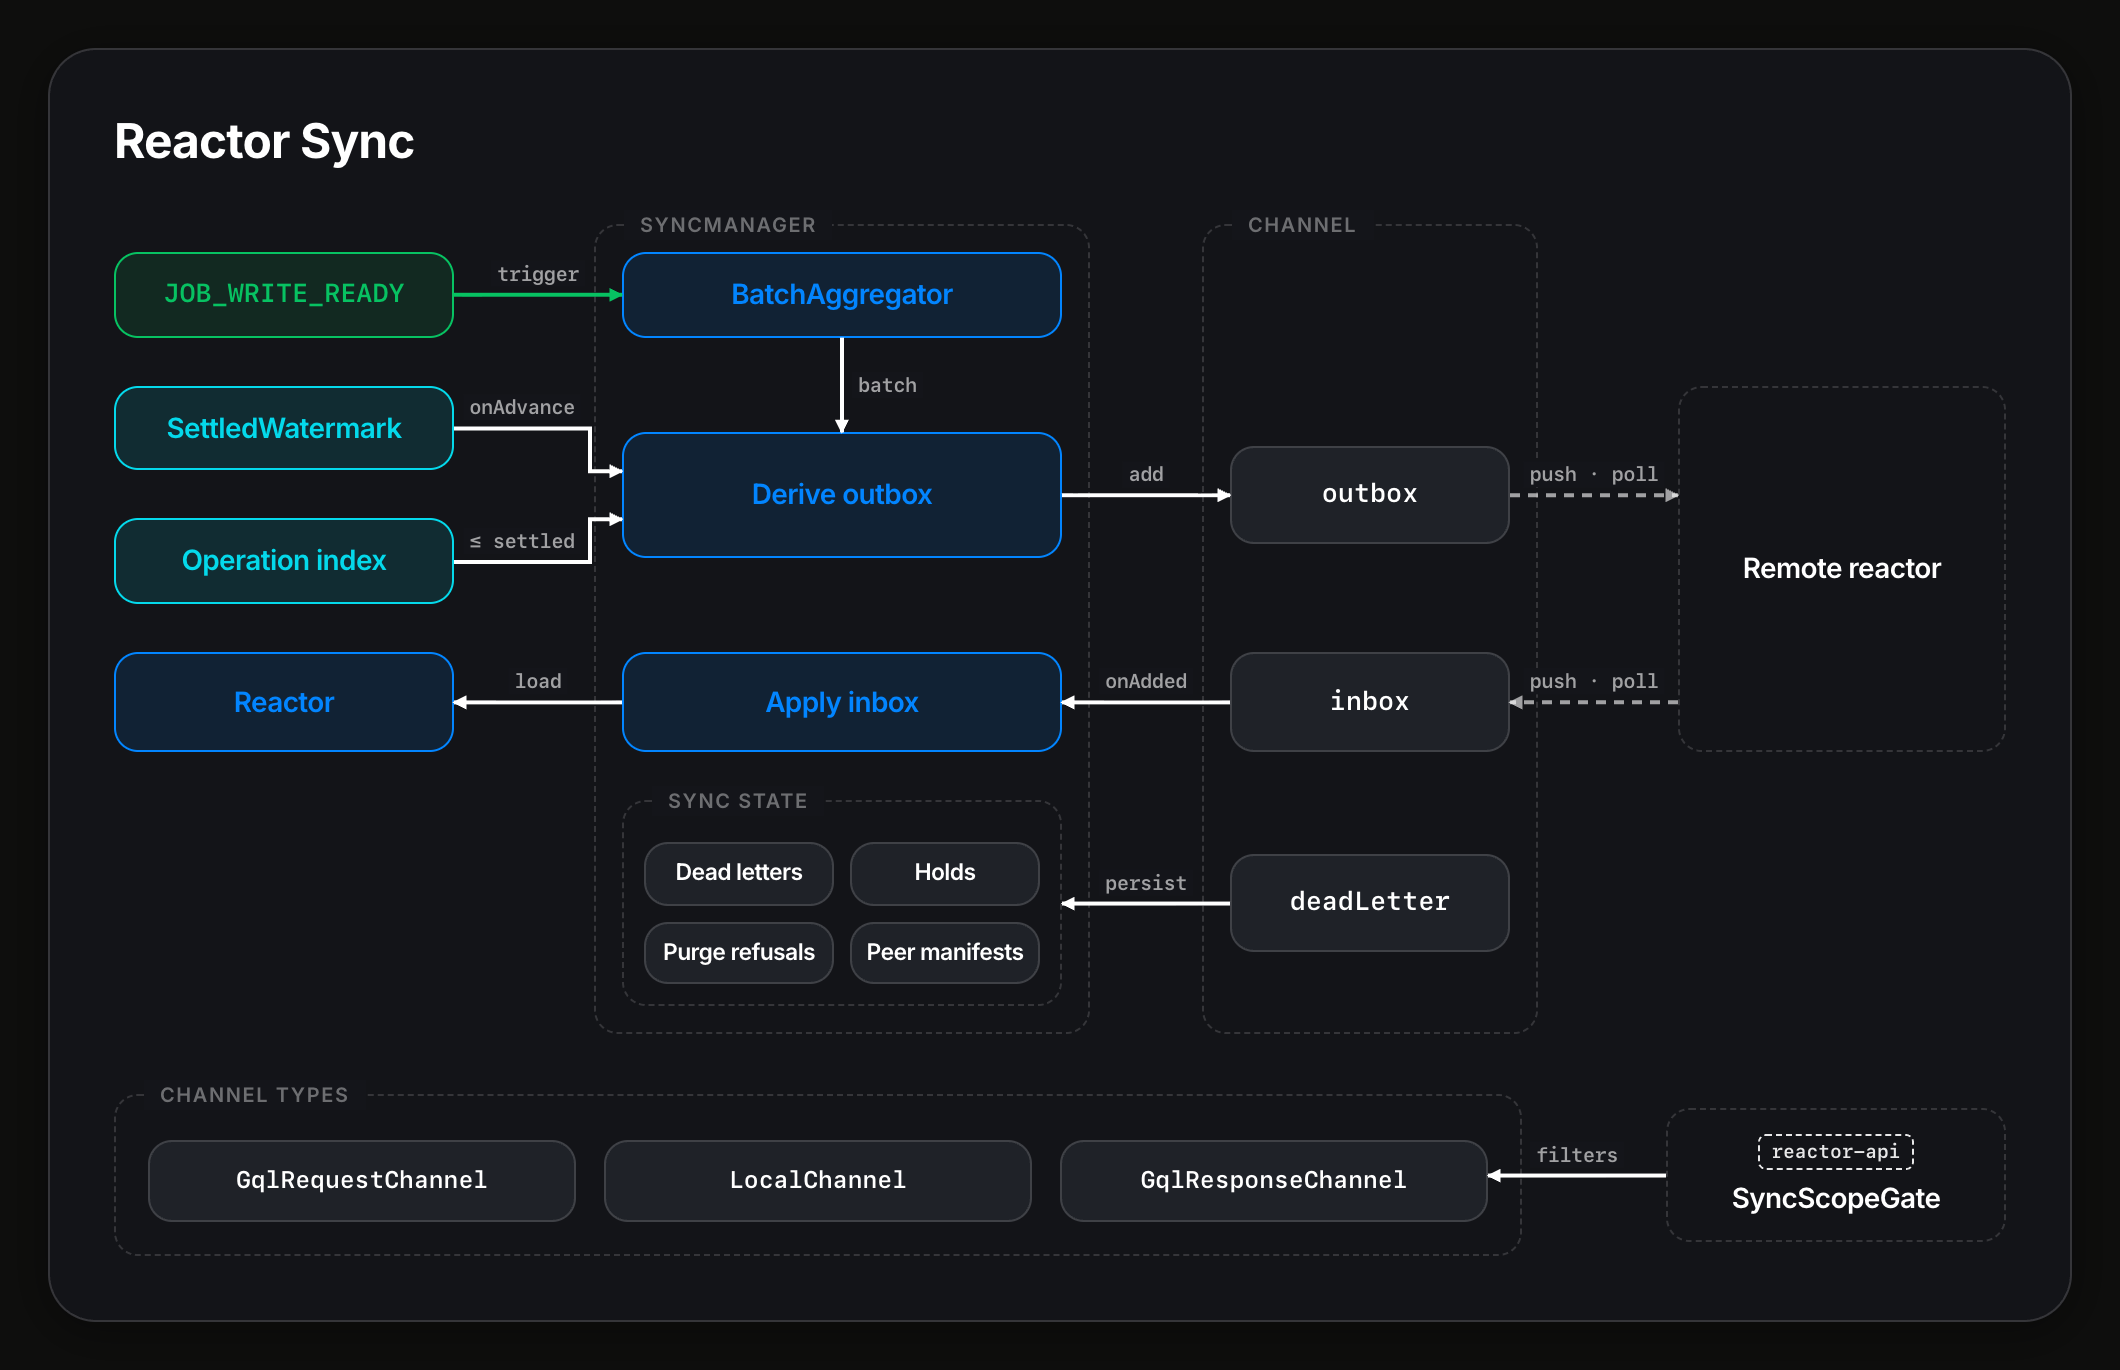
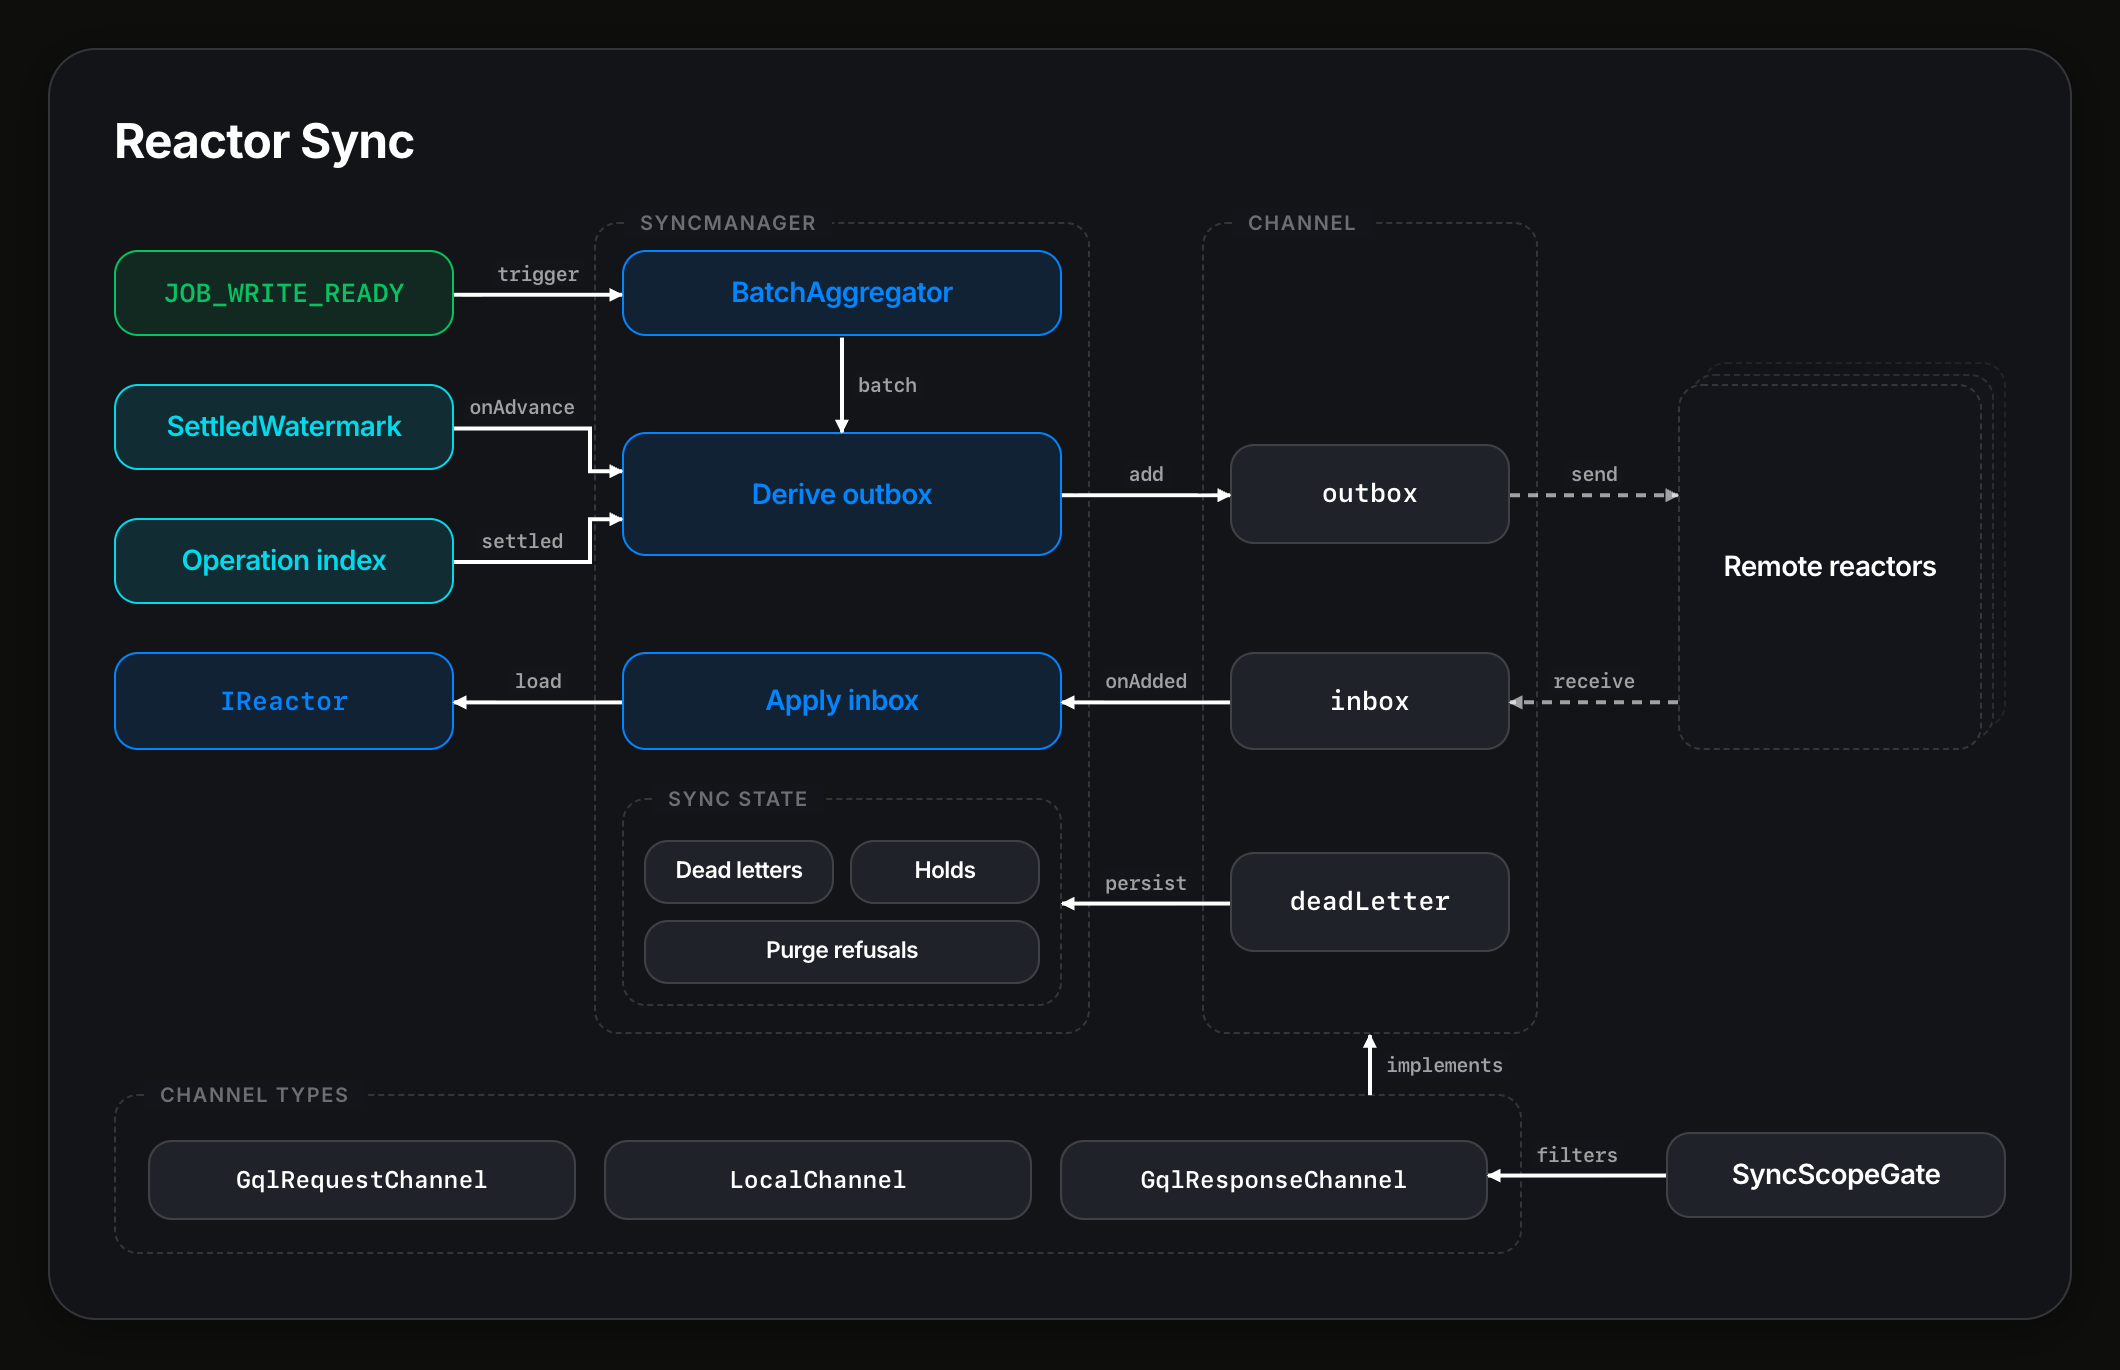
reactor sync: apply the components rules
One edge colour, one-word labels (send and receive replace push · poll)
and name-only boxes: the reactor-api tag on SyncScopeGate is gone and
the facade is IReactor. Remote reactors are a fan-out stack. The
channel-type boxes now connect to the Channel frame with an implements
edge, and Peer manifests, which had no truthful edge here, is removed
from sync state.

diff --git a/pages/reactor-sync.html b/pages/reactor-sync.html
@@ -179,7 +179,7 @@
 <body>
   <!--
     Element → source map (paths relative to packages/reactor/src unless prefixed reactor-api/).
-    Line numbers as of main a30562aeca.
+    Line numbers as of main a30562aeca. All edges share one colour; dashed marks the channel transport.
 
     SyncManager ............... sync/sync-manager.ts; built by sync/sync-builder.ts:131 (core/reactor-builder.ts:1402, :1415)
     JOB_WRITE_READY · trigger . sync-manager.ts:592-595 (enqueueWriteReady)
@@ -187,23 +187,22 @@
     batch ..................... sync-manager.ts:2337 processCompleteBatch
     SettledWatermark .......... catch-up/settled-watermark.ts:225, probe :163-221
     onAdvance ................. sync-manager.ts:588-590; settled-watermark.ts:304-310; sync-manager.ts:2405 deriveSettled
-    Operation index · ≤ settled cache/kysely-operation-index.ts:158; sync-manager.ts:3474 (throughOrdinal = settledThrough), :3482-3491
+    Operation index · settled . cache/kysely-operation-index.ts:158; sync-manager.ts:3474 (throughOrdinal = settledThrough), :3482-3491
     Derive outbox ............. sync-manager.ts:3463 deriveOutbox; filters :3517-3535; emitBatches :3412
     add ....................... sync-manager.ts:3459 outbox.add
     Apply inbox ............... sync-manager.ts:2488 handleInboxAdded; ack on WRITE_READY :2368, sync/utils.ts:28
     onAdded ................... sync-manager.ts:2116-2118
     load ...................... sync-manager.ts:2863 reactor.load, :3064 reactor.loadBatch
-    Reactor ................... core/reactor.ts:717 load, :873 loadBatch
+    IReactor .................. core/types.ts:138; core/reactor.ts:717 load, :873 loadBatch
     outbox · inbox · deadLetter sync/interfaces.ts:37-102; sync/mailbox.ts:75
-    push · poll ............... channels/gql-req-channel.ts:1382 (pushSyncEnvelopes), :1022 (pollSyncEnvelopes); channels/local-channel.ts:73
+    send / receive ............ channels/gql-req-channel.ts:1382 (pushSyncEnvelopes), :1022 (pollSyncEnvelopes); channels/local-channel.ts:73
     persist ................... sync-manager.ts:2148 deadLetter.onAdded, :2234 persist, DEAD_LETTER_ADDED :2247
     Sync state
       Dead letters ............ sync-manager.ts:2234, :2268
       Holds ................... sync-manager.ts:966 (SYNC_HELD), :1049 (SYNC_RELEASED)
       Purge refusals .......... sync/purge-refusals.ts:8; sync-manager.ts:828, :843 (PURGE_REFUSED)
-      Peer manifests .......... sync/peer-agreement.ts:27-63; sync-manager.ts:729 applyPeerManifest
-    Remote reactor ............ peer behind its own channel
-    Channel types
+    Remote reactors [stack] ... sync/sync-manager.ts:312 (remotes: Map<string, Remote>)
+    Channel types · implements  each class implements IChannel (sync/interfaces.ts:37-102)
       GqlRequestChannel ....... channels/gql-req-channel.ts:160 (touchChannel :1124)
       LocalChannel ............ channels/local-channel.ts:73; channels/local-channel-factory.ts:27
       GqlResponseChannel ...... channels/gql-res-channel.ts:23; reactor-api/src/graphql/reactor/resolvers.ts:2214, :1803
@@ -220,18 +219,18 @@
         <div class="diagram">
 
           <div class="frame-col" style="grid-column:2"><span class="group-label">SyncManager</span></div>
-          <div class="frame-col" style="grid-column:3"><span class="group-label">Channel</span></div>
+          <div class="frame-col" id="chan-frame" style="grid-column:3"><span class="group-label">Channel</span></div>
 
-          <div class="box event-pill" id="ev" style="grid-column:1;grid-row:1"><div class="box-title mono">JOB_WRITE_READY</div></div>
+          <div class="box accent-green" id="ev" style="grid-column:1;grid-row:1"><div class="box-title mono">JOB_WRITE_READY</div></div>
           <div class="box accent-blue" id="agg" style="grid-column:2;grid-row:1"><div class="box-title">BatchAggregator</div></div>
 
           <div class="box accent-cyan" id="wm" style="grid-column:1;grid-row:2"><div class="box-title">SettledWatermark</div></div>
           <div class="box accent-cyan" id="oi" style="grid-column:1;grid-row:3"><div class="box-title">Operation index</div></div>
           <div class="box accent-blue" id="derive" style="grid-column:2;grid-row:2 / 4;align-self:center;padding:22px 12px"><div class="box-title">Derive outbox</div></div>
           <div class="box mailbox" id="outbox" style="grid-column:3;grid-row:2 / 4"><div class="box-title mono">outbox</div></div>
-          <div class="box variant" id="remote" style="grid-column:4;grid-row:2 / 5"><div class="box-title">Remote reactor</div></div>
+          <div class="fanout dashed" id="remote" style="grid-column:4;grid-row:2 / 5;margin-top:0"><div class="box variant"><div class="box-title">Remote reactors</div></div></div>
 
-          <div class="box accent-blue" id="reactor" style="grid-column:1;grid-row:4"><div class="box-title">Reactor</div></div>
+          <div class="box accent-blue" id="reactor" style="grid-column:1;grid-row:4"><div class="box-title mono">IReactor</div></div>
           <div class="box accent-blue" id="apply" style="grid-column:2;grid-row:4"><div class="box-title">Apply inbox</div></div>
           <div class="box mailbox" id="inbox" style="grid-column:3;grid-row:4"><div class="box-title mono">inbox</div></div>
 
@@ -239,8 +238,7 @@
             <span class="group-label">Sync state</span>
             <div class="box"><div class="box-title">Dead letters</div></div>
             <div class="box"><div class="box-title">Holds</div></div>
-            <div class="box"><div class="box-title">Purge refusals</div></div>
-            <div class="box"><div class="box-title">Peer manifests</div></div>
+            <div class="box" style="grid-column:1 / -1"><div class="box-title">Purge refusals</div></div>
           </div>
           <div class="box mailbox" id="dead" style="grid-column:3;grid-row:5"><div class="box-title mono">deadLetter</div></div>
         </div>
@@ -252,10 +250,7 @@
             <div class="box"><div class="box-title mono">LocalChannel</div></div>
             <div class="box" id="gqlres"><div class="box-title mono">GqlResponseChannel</div></div>
           </div>
-          <div class="box variant" id="gate">
-            <span class="variant-tag">reactor-api</span>
-            <div class="box-title">SyncScopeGate</div>
-          </div>
+          <div class="box" id="gate"><div class="box-title">SyncScopeGate</div></div>
         </div>
         </div>
       </div>
@@ -272,19 +267,20 @@
       const ev = R('ev'), agg = R('agg'), wm = R('wm'), oi = R('oi'), d = R('derive');
       const ob = R('outbox'), rm = R('remote'), re = R('reactor'), ap = R('apply');
       const ib = R('inbox'), st = R('state'), dl = R('dead');
-      const gr = R('gqlres'), gt = R('gate');
+      const gr = R('gqlres'), gt = R('gate'), cf = R('chan-frame'), ty = R('types');
       return [
-        { cls: 'w-event', pts: [[ev.r, ev.cy], [agg.l, ev.cy]], label: 'trigger', seg: 0 },
+        { cls: 'w-call', pts: [[ev.r, ev.cy], [agg.l, ev.cy]], label: 'trigger', seg: 0 },
         { cls: 'w-call', pts: [[agg.cx, agg.b], [agg.cx, d.t]], label: 'batch', seg: 0 },
         { cls: 'w-call', pts: [[wm.r, wm.cy], [d.l - 16, wm.cy], [d.l - 16, d.cy - 12], [d.l, d.cy - 12]], label: 'onAdvance', seg: 0 },
-        { cls: 'w-call', pts: [[oi.r, oi.cy], [d.l - 16, oi.cy], [d.l - 16, d.cy + 12], [d.l, d.cy + 12]], label: '≤ settled', seg: 0 },
+        { cls: 'w-call', pts: [[oi.r, oi.cy], [d.l - 16, oi.cy], [d.l - 16, d.cy + 12], [d.l, d.cy + 12]], label: 'settled', seg: 0 },
         { cls: 'w-call', pts: [[d.r, ob.cy], [ob.l, ob.cy]], label: 'add', seg: 0 },
-        { cls: 'w-dash', pts: [[ob.r, ob.cy], [rm.l, ob.cy]], label: 'push · poll', seg: 0 },
-        { cls: 'w-dash', pts: [[rm.l, ib.cy], [ib.r, ib.cy]], label: 'push · poll', seg: 0 },
+        { cls: 'w-dash', pts: [[ob.r, ob.cy], [rm.l, ob.cy]], label: 'send', seg: 0 },
+        { cls: 'w-dash', pts: [[rm.l, ib.cy], [ib.r, ib.cy]], label: 'receive', seg: 0 },
         { cls: 'w-call', pts: [[ib.l, ib.cy], [ap.r, ib.cy]], label: 'onAdded', seg: 0 },
         { cls: 'w-call', pts: [[ap.l, ap.cy], [re.r, ap.cy]], label: 'load', seg: 0 },
         { cls: 'w-call', pts: [[dl.l, dl.cy], [st.r, dl.cy]], label: 'persist', seg: 0 },
         { cls: 'w-call', pts: [[gt.l, gt.cy], [gr.r, gt.cy]], label: 'filters', seg: 0 },
+        { cls: 'w-call', pts: [[cf.cx, ty.t], [cf.cx, cf.b]], label: 'implements', seg: 0 },
       ];
     }
 
